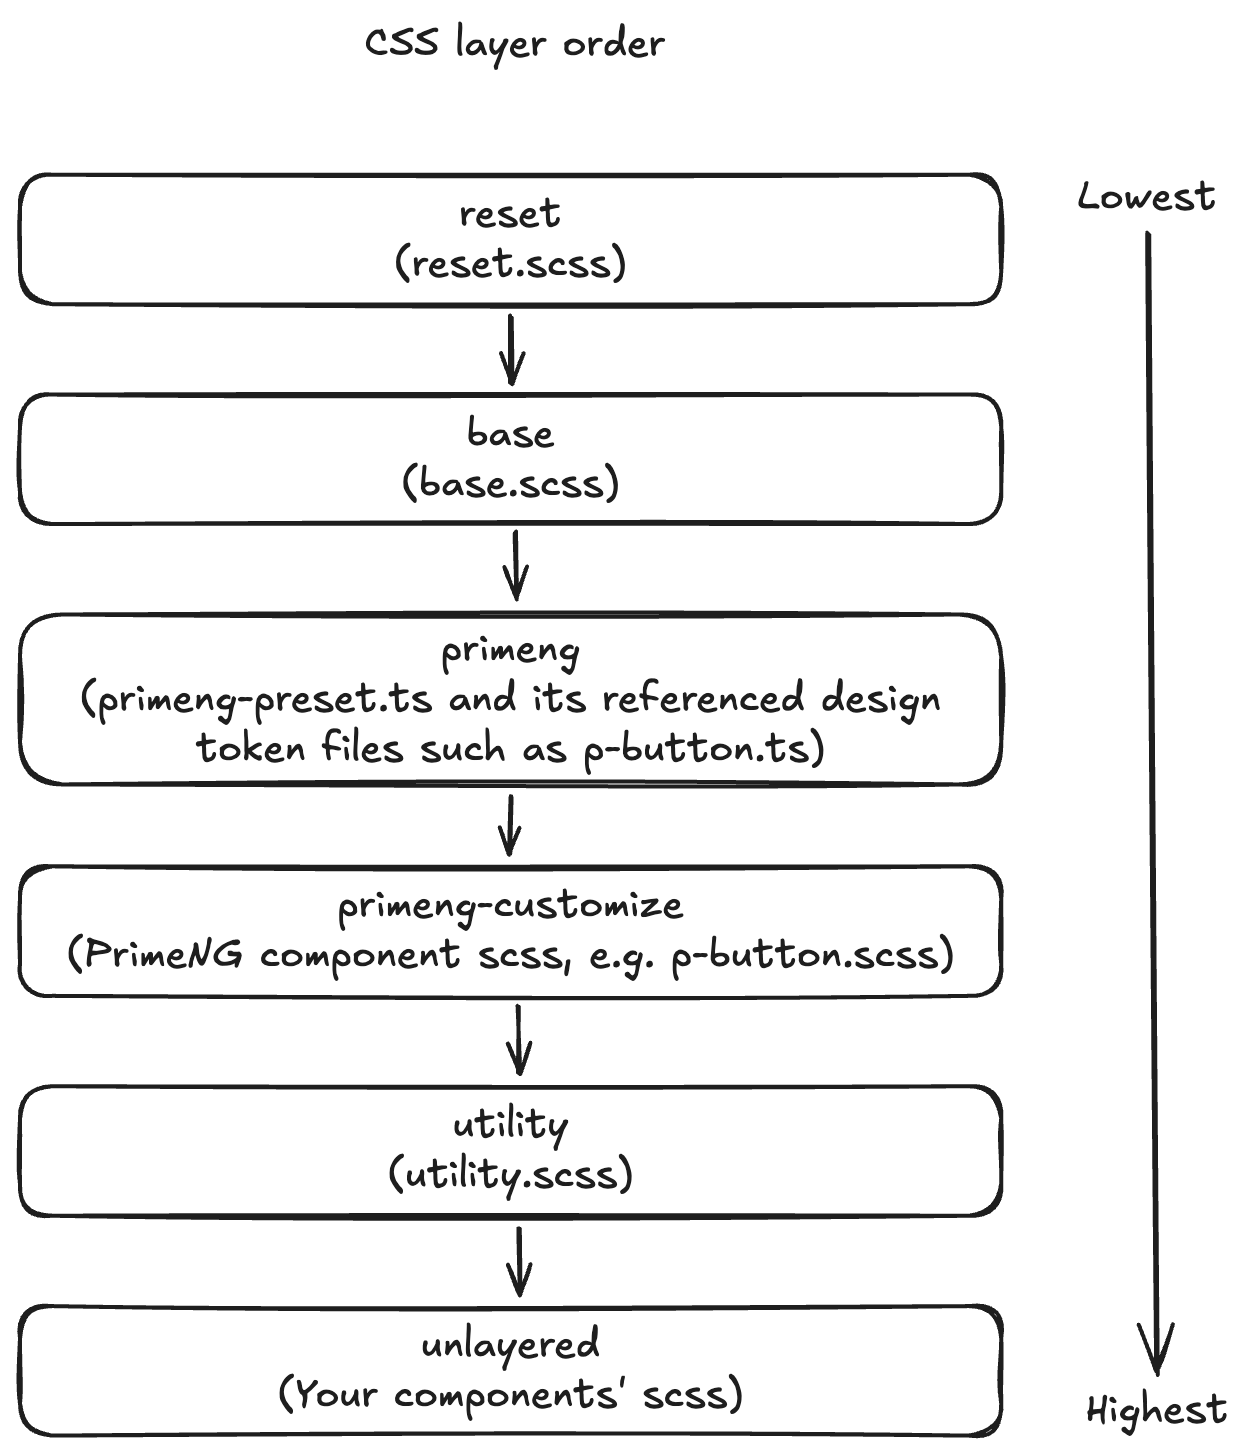
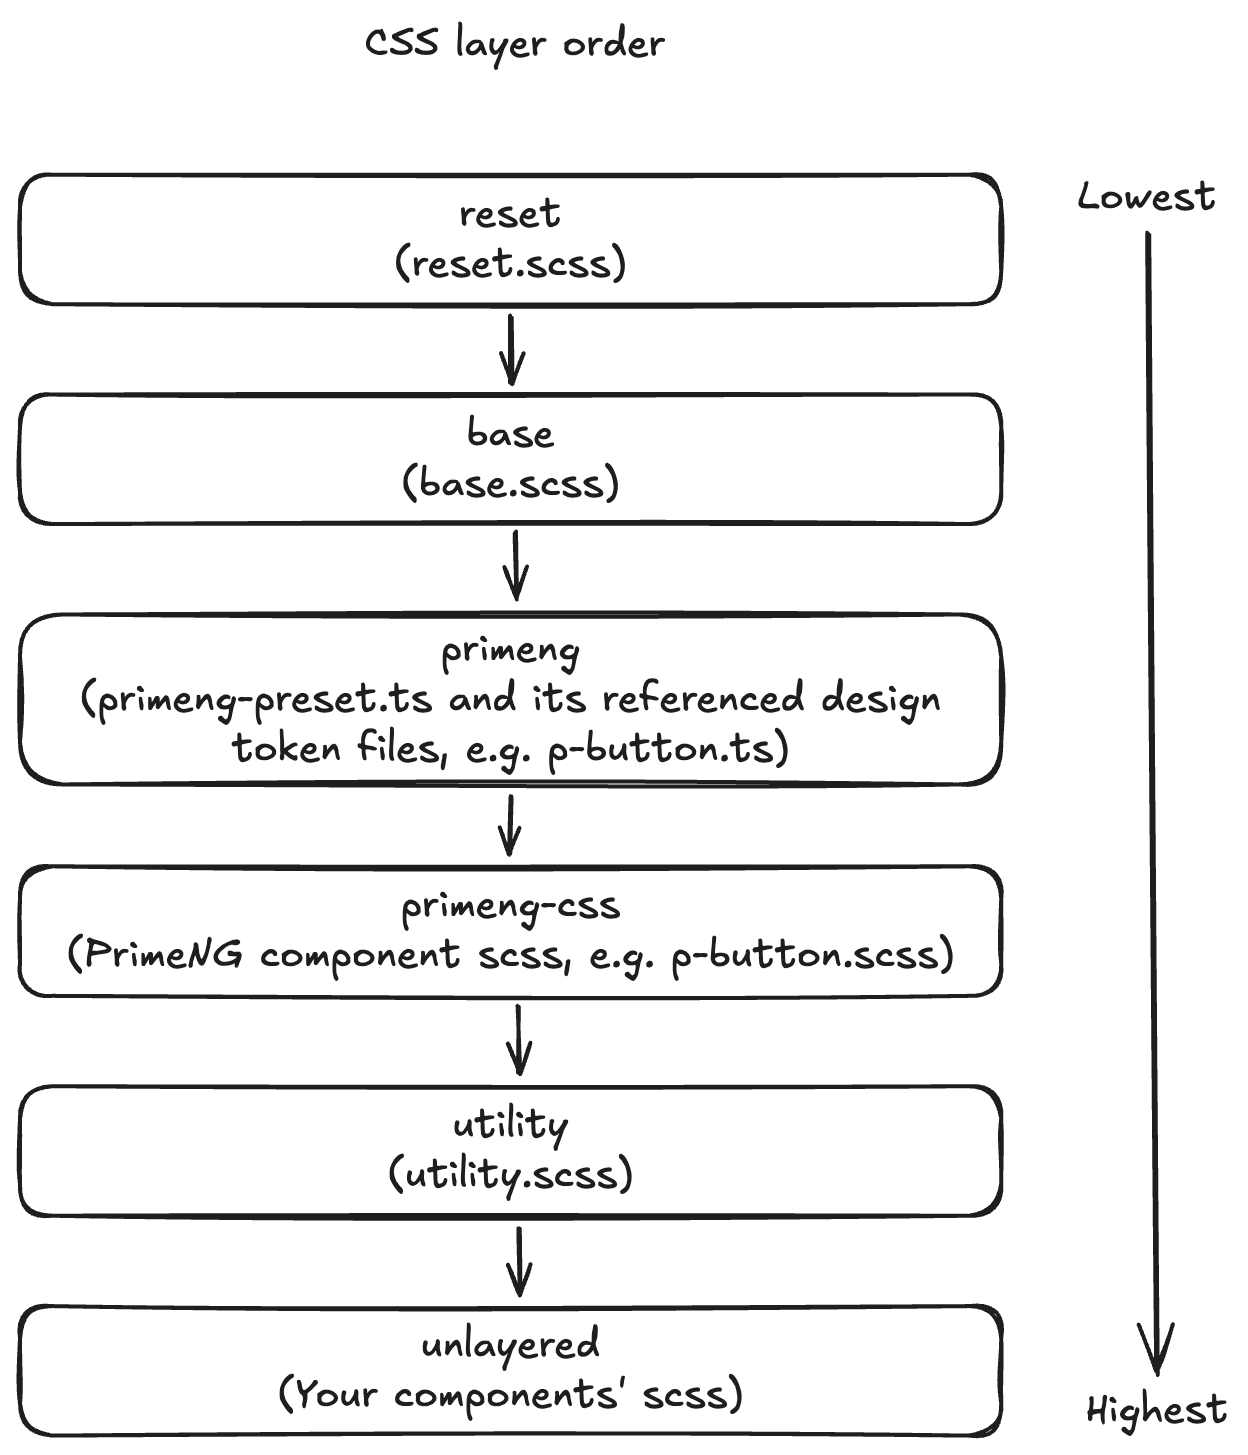
update

Changed region(s): [[0.1562, 0.4948, 0.6562, 0.5258], [0.25, 0.6186, 0.5625, 0.6495]]

diff --git a/src/common/style/primeng/primeng-css.scss b/src/common/style/primeng/primeng-css.scss
@@ -1,0 +1,14 @@
+// This is the entry file for PrimeNG CSS customization.
+// This approach should be considered only after the `primeng-preset.ts` approach.
+
+// When using this approach, you should follow the below steps:
+//    1. Firstly you should customize PrimeNG components's own CSS selectors,
+//       such as targeting `.p-button`(PrimeNG's own selector for p-button) in `p-button/p-button.scss`.
+//    2. If PrimeNG's own CSS selector does not meet your requirements, try add your own CSS selectors.
+//       Prefix your own selector with 'cp' which means 'Customize PrimeNG',
+//       such as `cp-dialog-content` in `p-dynamicdialog/p-dynamicdialog.scss`.
+
+@use './p-button/p-button';
+@use './p-confirmdialog/p-confirmdialog';
+@use './p-toast/p-toast';
+@use './p-dynamicdialog/p-dynamicdialog';

diff --git a/src/common/style/primeng/primeng-components.ts b/src/common/style/primeng/primeng-components.ts
@@ -1,6 +1,3 @@
-// This file contains customizations to primeng components
-// This file is the first place you should resort to when customize primeng components, more details please refer to "006-CSS strategy.md"
-
 import { button } from 'common/style/primeng/p-button/p-button';
 import { toast } from 'common/style/primeng/p-toast/p-toast';
 import { tooltip } from 'common/style/primeng/p-tooltip/p-tooltip';

diff --git a/src/styles.scss b/src/styles.scss
@@ -1,7 +1,7 @@
-// This file is the entry point for all global styles
+// This is the entry file for all global/shared styles.
 
 @use 'common/style/reset';
 @use 'common/style/base';
-@use 'common/style/primeng/primeng-customize';
+@use 'common/style/primeng/primeng-css';
 @use 'common/style/utility';
 @use 'primeicons/primeicons.css';

diff --git a/src/common/style/primeng/primeng-preset.ts b/src/common/style/primeng/primeng-preset.ts
@@ -1,3 +1,6 @@
+// This is the entry file for PrimeNG design token customization.
+// This approach should be considered before the `primeng-css.scss` approach.
+
 import { definePreset } from '@primeuix/themes';
 import Lara from '@primeuix/themes/Lara';
 import { primengSemantic } from 'common/style/primeng/primeng-semantic';

diff --git a/src/common/config/main.config.ts b/src/common/config/main.config.ts
@@ -21,7 +21,7 @@ export const applicationConfig: ApplicationConfig = {
         options: {
           cssLayer: {
             name: 'primeng',
-            order: 'reset, base, primeng, primeng-customize, utility',
+            order: 'reset, base, primeng, primeng-css, utility',
           },
         },
       },

diff --git a/src/common/style/primeng/p-button/p-button.scss b/src/common/style/primeng/p-button/p-button.scss
@@ -1,6 +1,5 @@
-@layer primeng-customize {
+@layer primeng-css {
   p-button {
-
     button.p-button:not(.p-button-lg):not(.p-button-sm) {
       font-size: var(--14px);
     }

diff --git a/src/common/style/primeng/p-toast/p-toast.scss b/src/common/style/primeng/p-toast/p-toast.scss
@@ -1,4 +1,4 @@
-@layer primeng-customize {
+@layer primeng-css {
   p-toast {
     .p-toast-detail {
       display: none; // hide the toast detail as we don't need it

diff --git a/src/common/style/primeng/p-confirmdialog/p-confirmdialog.scss b/src/common/style/primeng/p-confirmdialog/p-confirmdialog.scss
@@ -1,4 +1,4 @@
-@layer primeng-customize {
+@layer primeng-css {
   .p-confirmdialog {
     .p-dialog-header {
       padding: var(--12px) var(--20px);

diff --git a/src/common/style/primeng/p-dynamicdialog/p-dynamicdialog.scss b/src/common/style/primeng/p-dynamicdialog/p-dynamicdialog.scss
@@ -1,4 +1,4 @@
-@layer primeng-customize {
+@layer primeng-css {
   p-dynamicdialog {
     .p-dialog-header {
       padding: var(--12px) var(--20px);

diff --git a/ADRs/006_css_strategy.md b/ADRs/006_css_strategy.md
@@ -27,7 +27,7 @@ Normally you add your CSS styles in the following places:
   - `primeng/primeng-components.ts`: This file contains customization to PrimeNG's components using [PrimeNG's theming mechanism](https://primeng.org/theming)
   - `primeng/primeng-preset.ts`: This is the PrimeNG preset, normally you don't touch this file
   - `primeng/primeng-semantic.ts`: This file contains design token customization that are shared by all PrimeNG's components using PrimeNG's theming mechanism
-  - `primeng/primeng-customize.scss`: This file contains you own styles for customizing PrimeNG components if you cannot implement your customization using PrimeNG design token
+  - `primeng/primeng-css.scss`: This file contains you own styles for customizing PrimeNG components if you cannot implement your customization using PrimeNG design tokens
   - Folders for individual PrimeNG components customization(e.g. `p-button`):
     - `p-button.ts`: Design tokens customization for individual PrimeNG component, should be prefered over `p-button.scss`
     - `p-button.scss`: CSS customization for individual PrimeNG component
@@ -96,12 +96,12 @@ In practice, you don't quite need to touch css layers as they are already put in
 
 The common principle for arranging css layers is: default global styles should be put as lowest, followed by 3rd party components libraries(such as PrimeNG), and your own component's styles(which are unlayered) should be of highest priority.
 
-There are 5 CSS layers, from lowest priority to highest priority:
+There are 6 CSS layers, from lowest priority to highest priority:
 
 1. `reset`: CSS reset, used only in `reset.scss`
 2. `base`: Base global styles, used only in `base.scss`
-3. `primeng`: PrimeNG design tokens fall into this layer, such as `primeng-preset.ts`, `primeng-primitive.ts`, `primeng-semantic.ts` and `primeng-components.ts`. Other customization files, such as `primeng-customize.scss`, do not belong to this layer but `primeng-customize` layer
-4. `primeng-customize`: CSS styles for customizing PrimeNG components if design tokens cannot meet our requirements
+3. `primeng`: PrimeNG design tokens fall into this layer, such as `primeng-preset.ts`, `primeng-primitive.ts`, `primeng-semantic.ts` and `primeng-components.ts`. Other customization files, such as `primeng-css.scss`, do not belong to this layer but `primeng-css` layer
+4. `primeng-css`: CSS styles for customizing PrimeNG components if design tokens cannot meet our requirements
 5. `utility`: Utility styles in `utility.scss`
 6. unlayered: Your own components' styles
 
@@ -116,7 +116,7 @@ The CSS layers priority is configured by `theme.options.cssLayer.order` in `main
         options: {
           cssLayer: {
             name: 'primeng',
-            order: 'reset, base, primeng, primeng-customize, utility',
+            order: 'reset, base, primeng, primeng-css, utility',
           },
         },
       },
